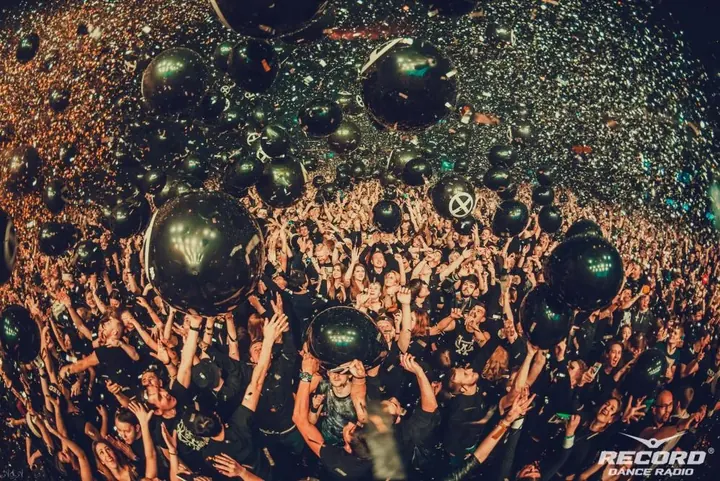
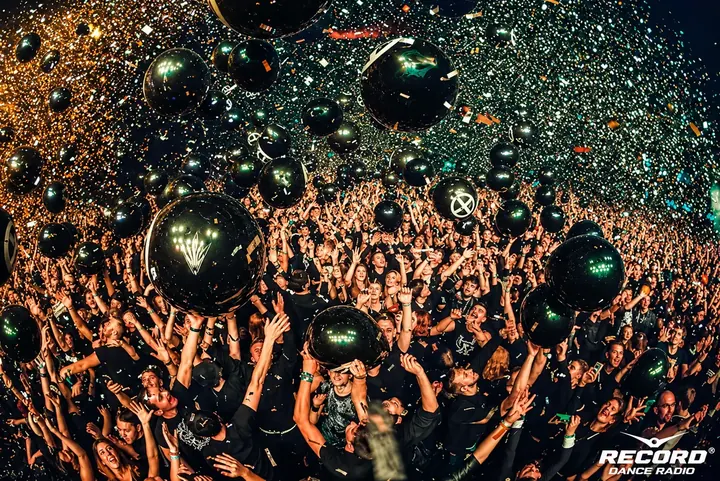
Sharper hero photos; product rails stay inside the page; buy row fits its card
- Hero and story photos replaced with the full-size versions supplied
  (1534–1672px instead of 1000–1280px). The hero now rotates three
  frames: the fourth has no full-size version yet and was dropped.
  tools/scenes.py keeps these four as masters and derives only -sm.
- Product rails (home, product page): from 768px the strip stays inside
  the container and shows a whole number of cards (2/3/4); arrows page
  by exactly that many. Phones keep the full-bleed swipe.
- Product card: price and buttons are pinned to the bottom with or
  without the type line, so they line up across a row.
- Buy row adapts to the card width (container query) instead of the
  screen: the button no longer sticks out of narrow catalogue cards.

diff --git a/index.html b/index.html
@@ -5,7 +5,7 @@
     <meta name="viewport" content="width=device-width, initial-scale=1" />
     <title>GLOBAL EFFECTS — оборудование для спецэффектов и расходные материалы</title>
     <meta name="description" content="Производитель оборудования для спецэффектов и крупнейший поставщик конфетти, серпантина и искусственного снега на российском рынке с 2007 года." />
-    <link rel="preload" as="image" href="/media/scenes/hero-cryo-stadium.webp" imagesrcset="/media/scenes/hero-cryo-stadium-sm.webp 720w, /media/scenes/hero-cryo-stadium.webp 1280w" imagesizes="100vw" fetchpriority="high" />
+    <link rel="preload" as="image" href="/media/scenes/hero-cryo-columns.webp" imagesrcset="/media/scenes/hero-cryo-columns-sm.webp 720w, /media/scenes/hero-cryo-columns.webp 1672w" imagesizes="100vw" fetchpriority="high" />
     <!-- @include head.html -->
     <link rel="stylesheet" href="/src/styles/sections/home.css" />
   </head>
@@ -21,20 +21,17 @@
             <div class="hero__media" aria-hidden="true">
               <!-- Real video goes here: public/media/hero-global-effects.mp4 (see README) -->
               <video class="hero__video" data-hero-video muted playsinline loop preload="none"
-                poster="/media/scenes/hero-cryo-stadium.webp"
+                poster="/media/scenes/hero-cryo-columns.webp"
                 data-src="/media/hero-global-effects.mp4"></video>
               <div class="hero__reel">
                 <figure class="hero__frame is-active" data-hero-frame>
-                  <img src="/media/scenes/hero-cryo-stadium.webp" srcset="/media/scenes/hero-cryo-stadium-sm.webp 720w, /media/scenes/hero-cryo-stadium.webp 1280w" sizes="100vw" width="1280" height="720" alt="" fetchpriority="high" decoding="async" />
+                  <img src="/media/scenes/hero-cryo-columns.webp" srcset="/media/scenes/hero-cryo-columns-sm.webp 720w, /media/scenes/hero-cryo-columns.webp 1672w" sizes="100vw" width="1672" height="941" alt="" fetchpriority="high" decoding="async" />
                 </figure>
                 <figure class="hero__frame" data-hero-frame>
-                  <img src="/media/scenes/hero-confetti-crowd.webp" srcset="/media/scenes/hero-confetti-crowd-sm.webp 720w, /media/scenes/hero-confetti-crowd.webp 1280w" sizes="100vw" width="1280" height="720" alt="" loading="lazy" decoding="async" />
+                  <img src="/media/scenes/hero-confetti-crowd.webp" srcset="/media/scenes/hero-confetti-crowd-sm.webp 720w, /media/scenes/hero-confetti-crowd.webp 1672w" sizes="100vw" width="1672" height="941" alt="" loading="lazy" decoding="async" />
                 </figure>
                 <figure class="hero__frame" data-hero-frame>
-                  <img src="/media/scenes/hero-cryo-columns.webp" srcset="/media/scenes/hero-cryo-columns-sm.webp 720w, /media/scenes/hero-cryo-columns.webp 1280w" sizes="100vw" width="1280" height="720" alt="" loading="lazy" decoding="async" />
-                </figure>
-                <figure class="hero__frame" data-hero-frame>
-                  <img src="/media/scenes/hero-confetti-arena.webp" srcset="/media/scenes/hero-confetti-arena-sm.webp 720w, /media/scenes/hero-confetti-arena.webp 1000w" sizes="100vw" width="1000" height="668" alt="" loading="lazy" decoding="async" />
+                  <img src="/media/scenes/hero-confetti-arena.webp" srcset="/media/scenes/hero-confetti-arena-sm.webp 720w, /media/scenes/hero-confetti-arena.webp 1534w" sizes="100vw" width="1534" height="1025" alt="" loading="lazy" decoding="async" />
                 </figure>
               </div>
               <div class="hero__shade grain"></div>
@@ -65,10 +62,9 @@
             </div>
 
             <div class="hero__index" role="group" aria-label="Кадры фоновой съёмки">
-              <button type="button" class="hero__dot is-active" data-hero-dot aria-label="Кадр 1: криоэффекты на стадионе">01</button>
+              <button type="button" class="hero__dot is-active" data-hero-dot aria-label="Кадр 1: столбы криоэффектов">01</button>
               <button type="button" class="hero__dot" data-hero-dot aria-label="Кадр 2: конфетти над залом">02</button>
-              <button type="button" class="hero__dot" data-hero-dot aria-label="Кадр 3: столбы криоэффектов">03</button>
-              <button type="button" class="hero__dot" data-hero-dot aria-label="Кадр 4: конфетти на арене">04</button>
+              <button type="button" class="hero__dot" data-hero-dot aria-label="Кадр 3: конфетти на арене">03</button>
               <button type="button" class="hero__pause" data-hero-pause aria-pressed="false" aria-label="Остановить смену кадров">
                 <svg width="14" height="14" aria-hidden="true"><use href="#i-pause" /></svg>
               </button>

diff --git a/src/styles/components/product-card.css b/src/styles/components/product-card.css
@@ -83,9 +83,9 @@
 }
 
 .pcard__body {
-  display: grid;
-  grid-template-columns: minmax(0, 1fr);
-  grid-template-rows: auto auto 1fr auto;
+  container-type: inline-size; /* the buy row adapts to the card, not to the screen (see below) */
+  display: flex;
+  flex-direction: column;
   gap: var(--s-2);
   padding: var(--s-4) var(--s-1) var(--s-5);
 }
@@ -133,7 +133,7 @@ body:not([data-page="home"]) .pcard__title {
   justify-content: space-between;
   align-items: baseline;
   gap: var(--s-2) var(--s-4);
-  align-self: end;
+  margin-top: auto; /* price and buttons sit at the bottom, with or without the type line */
   padding-top: var(--s-2);
 }
 
@@ -160,6 +160,30 @@ body:not([data-page="home"]) .pcard__title {
 .pcard__actions .btn__label {
   flex: 1;
   justify-content: center;
+}
+
+/* Stepper + button need 260px. Narrower card: the button drops its icon;
+   narrower still: they stack (the icon returns while the full-width button has its 143px). */
+@container ((min-width: 204px) and (max-width: 259px)) or (max-width: 142px) {
+  .pcard__actions .btn__icon {
+    display: none;
+  }
+}
+
+@container (min-width: 204px) and (max-width: 259px) {
+  .pcard__actions .btn__label {
+    padding-inline: var(--s-2);
+  }
+}
+
+@container (max-width: 203px) {
+  .pcard__actions {
+    flex-direction: column;
+  }
+  .pcard__actions .qty {
+    width: 100%;
+    justify-content: space-between;
+  }
 }
 
 @media (hover: hover) and (pointer: fine) {
@@ -224,13 +248,6 @@ body:not([data-page="home"]) .pcard__title {
   .pgrid > .pcard {
     padding: var(--s-2);
   }
-  .pcard__actions {
-    flex-direction: column;
-  }
-  .pcard__actions .qty {
-    width: 100%;
-    justify-content: space-between;
-  }
   .pcard__title {
     font-size: 0.875rem;
   }
@@ -273,6 +290,9 @@ body:not([data-page="home"]) .pcard__title {
 }
 
 /* ---------------- Rails ---------------- */
+/* Phones: a full-bleed strip to swipe, the next card peeks in.
+   From 768px: the strip stays inside the page container and shows a whole
+   number of cards (--per-view); arrows page by exactly that many. */
 .rail-track {
   display: grid;
   grid-auto-flow: column;
@@ -301,14 +321,35 @@ body:not([data-page="home"]) .pcard__title {
   pointer-events: none;
 }
 
+/* the card fills the item, so prices and buttons line up whatever the title length */
 .rail-item {
+  display: grid;
+  grid-template-columns: minmax(0, 1fr);
   scroll-snap-align: start;
 }
 
-@media (min-width: 1600px) {
+@media (min-width: 768px) {
   .rail-track {
-    padding-inline: calc((100vw - var(--container)) / 2 + var(--gutter));
-    scroll-padding-inline: calc((100vw - var(--container)) / 2 + var(--gutter));
+    --per-view: 2;
+    --ring: var(--s-1); /* room for the focus ring of the first and last card */
+    grid-auto-columns: calc((100% - (var(--per-view) - 1) * var(--s-4)) / var(--per-view));
+    width: calc(100% - 2 * var(--gutter) + 2 * var(--ring));
+    max-width: calc(var(--container) - 2 * var(--gutter) + 2 * var(--ring));
+    margin-inline: auto;
+    padding-inline: var(--ring);
+    scroll-padding-inline: var(--ring);
+  }
+}
+
+@media (min-width: 1024px) {
+  .rail-track {
+    --per-view: 3;
+  }
+}
+
+@media (min-width: 1280px) {
+  .rail-track {
+    --per-view: 4;
   }
 }
 

diff --git a/src/js/data/content.js b/src/js/data/content.js
@@ -180,7 +180,7 @@ export const stories = [
         label: 'Эффект',
         title: 'Конфетти над залом',
         text: 'Финальный залп концерта, выход артиста, первый танец — конфетти превращает момент в кадр, который зрители снимают на телефоны.',
-        image: { src: media('/media/scenes/story-effect.webp'), w: 1000, h: 668, alt: 'Зрители концерта под дождём из конфетти' },
+        image: { src: media('/media/scenes/story-effect.webp'), w: 1535, h: 1025, alt: 'Зрители концерта под дождём из конфетти' },
       },
       {
         kind: 'how',
@@ -263,7 +263,7 @@ export const stories = [
         kind: 'result',
         label: 'Результат на сцене',
         title: 'Сцена в движении',
-        image: { src: media('/media/scenes/hero-cryo-columns.webp'), w: 1280, h: 720, alt: 'Столбы криоэффектов на концерте' },
+        image: { src: media('/media/scenes/hero-cryo-columns.webp'), w: 1672, h: 941, alt: 'Столбы криоэффектов на концерте' },
         gallery: 'krioeffekty',
       },
     ],
@@ -283,14 +283,6 @@ export const dealers = [
   { city: 'Сочи', name: 'Праздникмастер', address: 'ул. Гагарина, 82', phone: '+7 (918) 320-10-56', site: 'prazdnikmaster.ru', type: 'Продажа' },
   { city: 'Симферополь', name: 'Праздникмастер', address: 'ул. Москалёва, 9', phone: '+7 (989) 295-59-24', site: 'prazdnikmaster.ru', type: 'Продажа' },
   { city: 'Краснодар', name: 'Праздникмастер', address: 'ул. Васнецова, 39/1', phone: '+7 (988) 356-28-17', site: 'prazdnikmaster.ru', type: 'Продажа' },
-];
-
-/** Hero photo reel (real event photos, graded). Replaced by the MP4 when it exists. */
-export const heroReel = [
-  { src: media('/media/scenes/hero-cryo-stadium.webp'), sm: media('/media/scenes/hero-cryo-stadium-sm.webp'), label: 'Криоэффекты' },
-  { src: media('/media/scenes/hero-confetti-crowd.webp'), sm: media('/media/scenes/hero-confetti-crowd-sm.webp'), label: 'Конфетти' },
-  { src: media('/media/scenes/hero-cryo-columns.webp'), sm: media('/media/scenes/hero-cryo-columns-sm.webp'), label: 'Криоэффекты' },
-  { src: media('/media/scenes/hero-confetti-arena.webp'), sm: media('/media/scenes/hero-confetti-arena-sm.webp'), label: 'Конфетти' },
 ];
 
 /** Flagship equipment shown in the home rail (ids from /data/catalog.json). */

diff --git a/src/js/components/rail.js b/src/js/components/rail.js
@@ -32,8 +32,9 @@ export function initRail(root, { step: stepMode = 'items' } = {}) {
       return;
     }
     const item = track.firstElementChild;
-    const step = item ? item.getBoundingClientRect().width + 16 : track.clientWidth * 0.8;
-    const count = Math.max(1, Math.floor(track.clientWidth / step));
+    const gap = parseFloat(getComputedStyle(track).columnGap) || 0;
+    const step = item ? item.getBoundingClientRect().width + gap : track.clientWidth * 0.8;
+    const count = Math.max(1, Math.floor((track.clientWidth + gap) / step)); // n cards take n·step − gap
     track.scrollBy({ left: dir * step * count, behavior: env.reducedMotion ? 'auto' : 'smooth' });
   };
 

diff --git a/src/styles/pages/catalog.css b/src/styles/pages/catalog.css
@@ -524,13 +524,6 @@ body:has(.header[data-hidden="false"]) .toolbar {
   }
 }
 
-/* very narrow phones: ~115px per card — the button keeps its label, drops the arrow block */
-@media (max-width: 359px) {
-  .cat-results .pcard__actions .btn__icon {
-    display: none;
-  }
-}
-
 .empty {
   grid-column: 1 / -1;
   display: grid;

diff --git a/tools/scenes.py b/tools/scenes.py
@@ -7,9 +7,12 @@ the page darkens them with CSS gradients only where text sits on top.
 
     python tools/scenes.py      # rewrites public/media/scenes/*.webp (+ -sm)
 
-ponytail: 9 scenes come from 960px video posters and are upscaled to the old
+MASTERS were supplied at full size: the file in scenes/ is the original and only
+its phone version is derived here.
+
+ponytail: 6 scenes come from 960px video posters and are upscaled to the old
 1280px size so no markup changes; replace with original footage when the client
-provides it.
+provides it (move the name to MASTERS and update width/height where it is used).
 """
 from PIL import Image
 
@@ -24,10 +27,15 @@ SCENES = {
     'fx-foam': 'gallery/pena_00', 'fx-foam-2': 'video/IpYudCN1XI4',
     'fx-smoke': 'gallery/tazelyj-dym_02', 'fx-smoke-2': 'video/ZV9-TIAr2Hc',
     'fx-snow': 'gallery/iskusstvennyj-sneg_23', 'fx-snow-2': 'gallery/iskusstvennyj-sneg_21',
-    'hero-confetti-arena': 'gallery/konfetti_15', 'hero-confetti-crowd': 'video/riW-qHDaWJI',
-    'hero-cryo-columns': 'video/M1PK8_DuwHI', 'hero-cryo-stadium': 'video/AXmYWZ8KnxI',
-    'story-effect': 'gallery/konfetti_04', 'story-result': 'gallery/konfetti_22',
+    'story-result': 'gallery/konfetti_22',
 }
+MASTERS = ['hero-confetti-arena', 'hero-confetti-crowd', 'hero-cryo-columns', 'story-effect']
+
+
+def save_small(large, target):
+    small_w = min(720, large.width)
+    large.resize((small_w, round(large.height * small_w / large.width)), Image.LANCZOS).save(target.replace('.webp', '-sm.webp'), 'WEBP', quality=78, method=6)
+
 
 for name, source in SCENES.items():
     target = f'{MEDIA}/scenes/{name}.webp'
@@ -36,6 +44,10 @@ for name, source in SCENES.items():
     assert abs(photo.width / photo.height - size[0] / size[1]) < 0.02, f'{name}: aspect differs from {source}'
     large = photo.resize(size, Image.LANCZOS)
     large.save(target, 'WEBP', quality=80, method=6)
-    small_w = min(720, size[0])
-    large.resize((small_w, round(size[1] * small_w / size[0])), Image.LANCZOS).save(target.replace('.webp', '-sm.webp'), 'WEBP', quality=78, method=6)
+    save_small(large, target)
     print(f'{name:22} <- {source}')
+
+for name in MASTERS:
+    target = f'{MEDIA}/scenes/{name}.webp'
+    save_small(Image.open(target).convert('RGB'), target)
+    print(f'{name:22} (master)')
